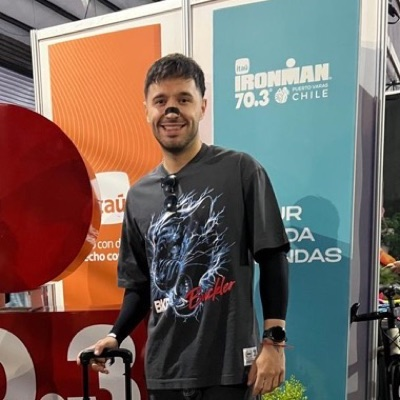
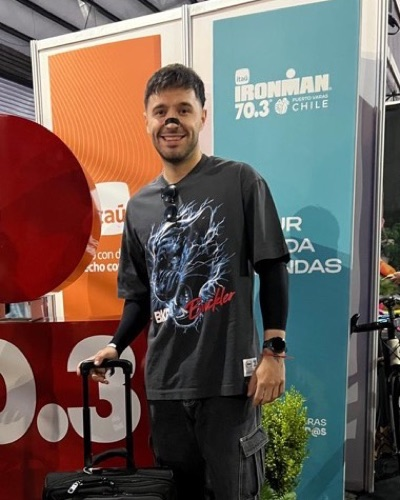
Rectangular 4:5 photo, re-cropped images, cache-busting

diff --git a/index.html b/index.html
@@ -5,14 +5,14 @@
   <meta name="viewport" content="width=device-width, initial-scale=1">
   <title>Juan Martín Guzmán Salas</title>
   <meta name="description" content="Software engineer building AI agents. MSc student in Human-Centred AI at the University of Groningen, moving into AI safety and governance.">
-  <link rel="stylesheet" href="style.css">
+  <link rel="stylesheet" href="style.css?v=3">
 </head>
 <body>
 <main>
 
   <header>
     <button class="photo" id="photo" type="button" title="Show another photo" aria-label="Show another photo">
-      <img id="photo-img" src="img/portrait-selfie.jpg" alt="Juan Martín Guzmán Salas" width="150" height="150">
+      <img id="photo-img" src="img/portrait-selfie.jpg?v=3" alt="Juan Martín Guzmán Salas" width="144" height="180">
     </button>
     <div class="intro">
       <h1>Juan Martín Guzmán Salas</h1>
@@ -109,11 +109,11 @@
 <script>
   // Random photo on each visit; it changes every 5 minutes, or on click.
   const photos = [
-    { src: "img/portrait-selfie.jpg", alt: "Juan Martín Guzmán Salas" },
-    { src: "img/triathlon-run.jpg", alt: "Running in a triathlon" },
-    { src: "img/triathlon-bike.jpg", alt: "Cycling on a mountain road" },
-    { src: "img/triathlon-swim.jpg", alt: "After an open-water swim" },
-    { src: "img/ironman-70-3-puerto-varas.jpg", alt: "At IRONMAN 70.3 Puerto Varas" }
+    { src: "img/portrait-selfie.jpg?v=3", alt: "Juan Martín Guzmán Salas" },
+    { src: "img/triathlon-run.jpg?v=3", alt: "Running in a triathlon" },
+    { src: "img/triathlon-bike.jpg?v=3", alt: "Cycling on a mountain road" },
+    { src: "img/triathlon-swim.jpg?v=3", alt: "After an open-water swim" },
+    { src: "img/ironman-70-3-puerto-varas.jpg?v=3", alt: "At IRONMAN 70.3 Puerto Varas" }
   ];
   const img = document.getElementById("photo-img");
   let i = Math.floor(Math.random() * photos.length);

diff --git a/style.css b/style.css
@@ -26,9 +26,9 @@ p { margin: 0 0 12px; }
 p:last-child { margin-bottom: 0; }
 
 /* Header */
-header { display: flex; align-items: center; gap: 32px; padding-bottom: 36px; margin-bottom: 8px; border-bottom: 1px solid var(--line); }
-.photo { flex-shrink: 0; padding: 0; border: none; background: none; cursor: pointer; border-radius: 4px; }
-.photo img { display: block; width: 150px; height: 150px; object-fit: cover; border-radius: 4px; }
+header { display: flex; align-items: flex-start; gap: 32px; padding-bottom: 36px; margin-bottom: 8px; border-bottom: 1px solid var(--line); }
+.photo { flex-shrink: 0; padding: 0; border: none; background: none; cursor: pointer; border-radius: 0; }
+.photo img { display: block; width: 144px; height: 180px; object-fit: cover; border-radius: 0; border: 1px solid var(--line); }
 .photo:focus-visible { outline: 2px solid var(--accent); outline-offset: 3px; }
 h1 { font-family: var(--serif); font-size: 30px; line-height: 1.2; font-weight: 700; margin: 0 0 6px; letter-spacing: -0.2px; }
 .tagline { font-family: var(--sans); font-size: 15px; line-height: 1.5; color: var(--muted); margin: 0 0 10px; }
@@ -59,7 +59,7 @@ h2 { margin: 0; font-family: var(--serif); font-size: 17px; font-weight: 400; fo
 @media (max-width: 640px) {
   main { padding-top: 40px; }
   header { flex-direction: column; align-items: flex-start; gap: 20px; }
-  .photo img { width: 120px; height: 120px; }
+  .photo img { width: 112px; height: 140px; }
   h1 { font-size: 26px; }
   section { grid-template-columns: 1fr; gap: 8px; }
   .row { flex-direction: column; gap: 0; }
